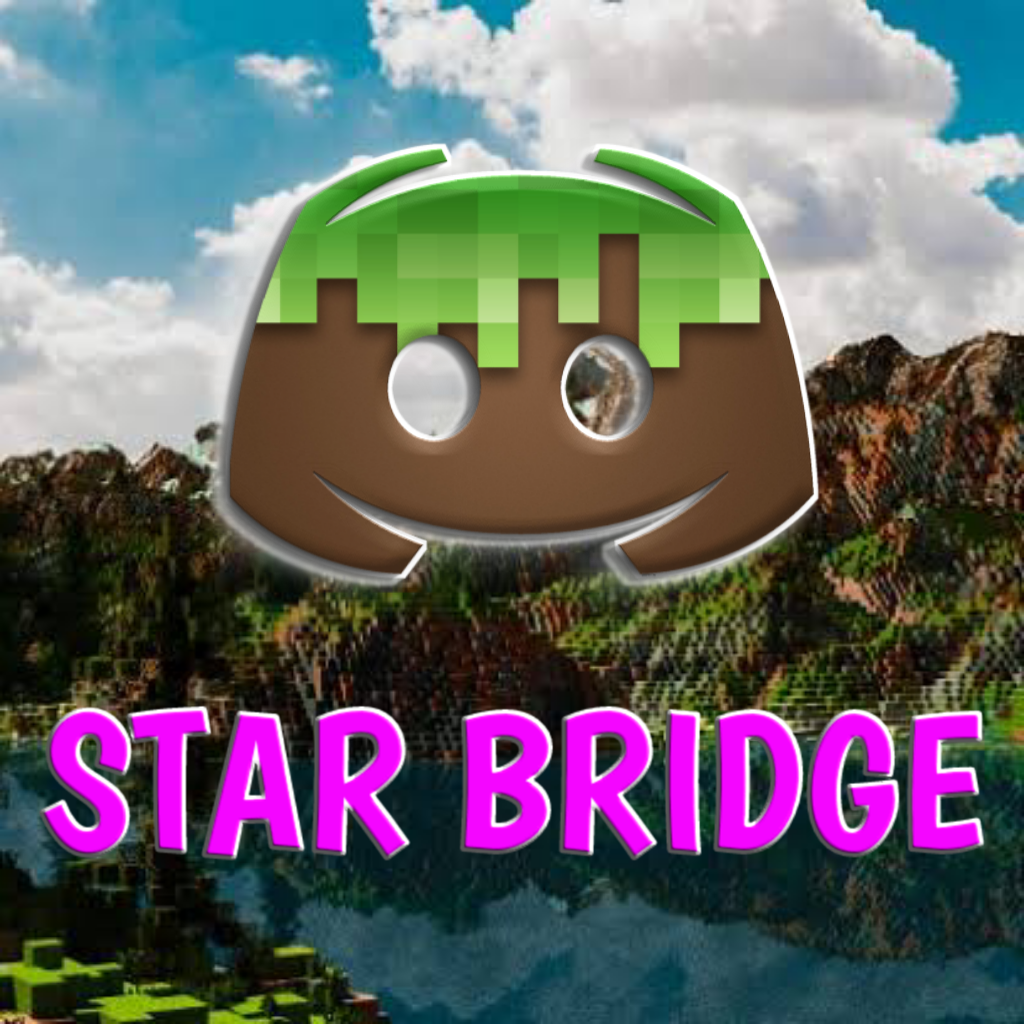
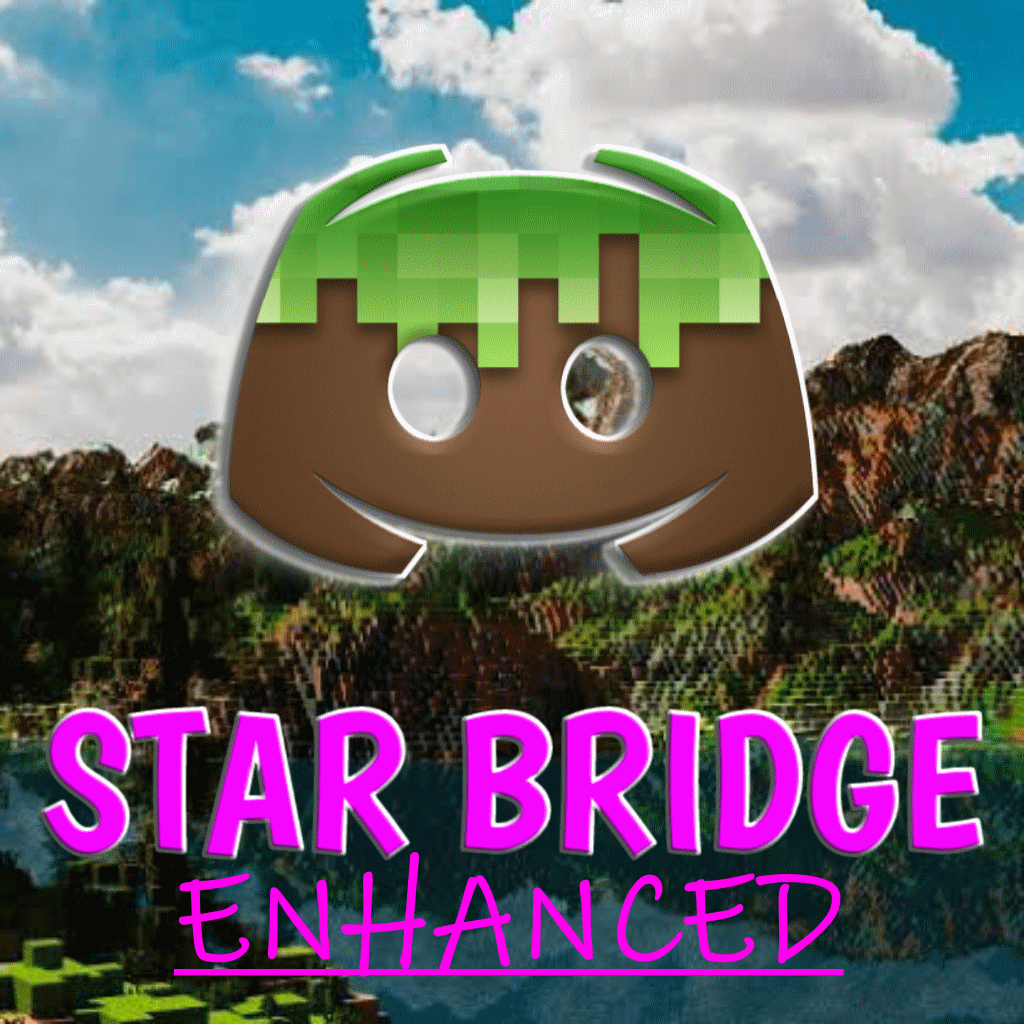
readme test

Changed region(s): [[0.1562, 0.8438, 0.8438, 0.9688]]

diff --git a/README.md b/README.md
@@ -1,2 +1,5 @@
-# Starbridge-Enhanced
-A Minecraft: Bedrock Edition addon that enables chat bridge across Bedrock Dedicated Server and Discord.
+# Starbridge Enhanced
+
+A Minecraft: Bedrock Edition addon that enables chat bridge across Bedrock Dedicated Server and Discord. 
+
+This addon is an improved version of the original Starbridge addon by [ayy star](https://starstudios.tech/), i have his permission to continue the project.<br>![permission proof](screenies/image.png)
